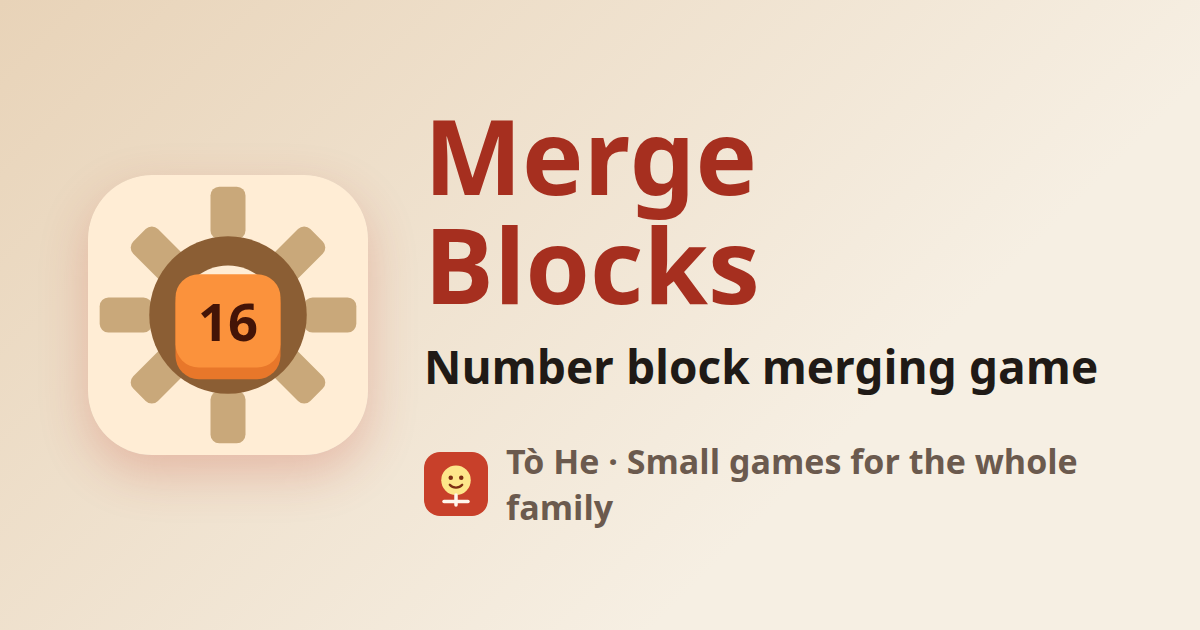
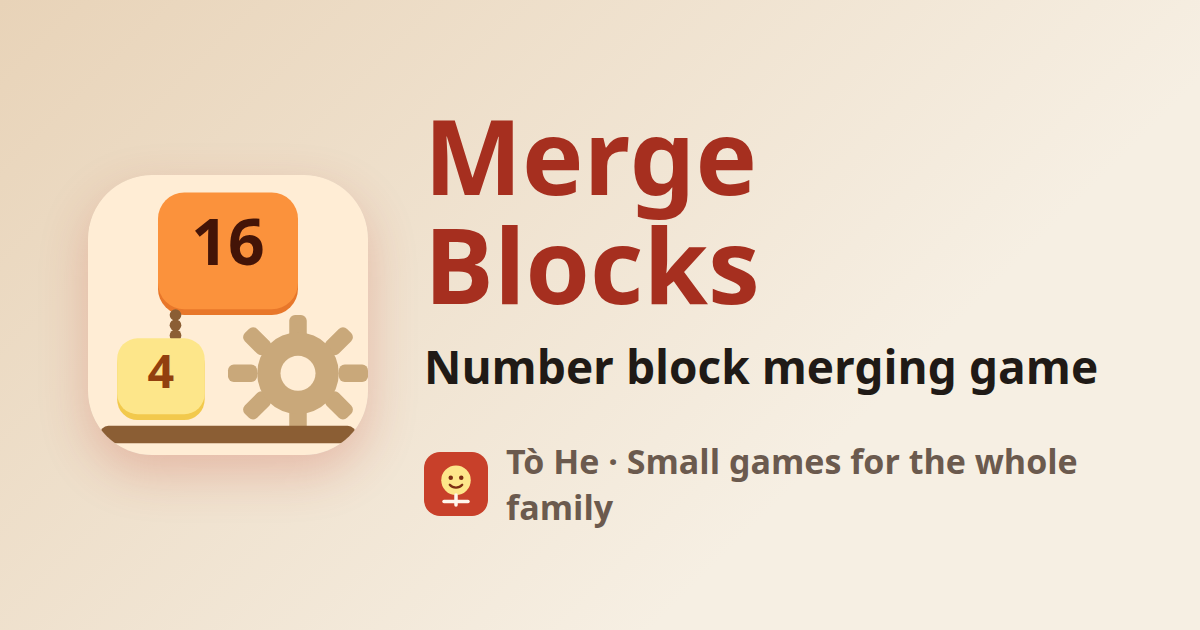
fix(merge-block): align the blocks to their cells and give the machine a brand mark (2.0.1)
The block texture is now exactly the cell slot: the dark edge is an inset border, the top face and number are centred, and the aim ghost is the same slot, so the 3D edge no longer spills into the next cell. The new mark tells the game's loop in one picture: the 4 fired up to the 16, with the gear and the loader rail; the title, catalog, OG and docs follow.

Changed region(s): [[0.0617, 0.3016, 0.3083, 0.7238]]

diff --git a/games/merge-block/src/view.ts b/games/merge-block/src/view.ts
@@ -336,13 +336,15 @@ export class BoardScene extends Phaser.Scene {
     });
   }
 
-  /** A block with its number, centred on the top face's square: `originY` puts that centre on the block's position. */
+  /** A block with its number, the whole block the size of its cell slot: `originY` puts its centre on the cell's. */
   private blockTexture(exp: Exponent, size: number): { key: string; originY: number } {
     const inner = size - this.layoutInfo.gap;
     const r = inner * 0.2;
     const line = Math.max(2, inner * 0.04);
     const pad = Math.ceil(line / 2) + 1;
-    const height = inner * 1.06 + pad * 2;
+    const height = inner + pad * 2;
+    const inset = inner * 0.03;
+    const face = inner - inset * 2;
     const key = `merge-block:block:${this.theme}:${this.palette}:${inner}:${exp}`;
     this.drawn.add(key);
     drawTexture(this, key, inner + pad * 2, height, (ctx) => {
@@ -353,17 +355,25 @@ export class BoardScene extends Phaser.Scene {
         roundedRect(ctx, pad + x, pad + y, w, h, radius);
         ctx.fill();
       };
-      fill(cssHex(style.edge), 0, inner * 0.06, inner, inner, r);
-      fill(cssHex(style.fill), 0, 0, inner, inner * 0.94, r);
+      // The dark edge is the block's border, inside the cell slot, so blocks never spill into the gap.
+      fill(cssHex(style.edge), 0, 0, inner, inner, r);
+      fill(cssHex(style.fill), inset, inset, face, face, r * 0.94);
       if (style.outline !== undefined) {
         ctx.lineWidth = line;
         ctx.strokeStyle = cssHex(style.outline);
         ctx.beginPath();
-        roundedRect(ctx, pad, pad, inner, inner, r);
+        roundedRect(ctx, pad + inset, pad + inset, face, face, r * 0.94);
         ctx.stroke();
       }
-      fill('rgba(255, 255, 255, 0.22)', inner * 0.1, inner * 0.07, inner * 0.8, inner * 0.18, r * 0.6);
-      // The digits' own box is centred (not the font's), a little above the middle like the top face.
+      fill(
+        'rgba(255, 255, 255, 0.22)',
+        inset + face * 0.1,
+        inset + face * 0.07,
+        face * 0.8,
+        face * 0.18,
+        r * 0.6,
+      );
+      // The digits' own box is centred (not the font's) on the top face.
       const value = formatValue(blockValue(exp));
       const fontSize = Math.round(inner * (value.length <= 2 ? 0.46 : value.length === 3 ? 0.38 : 0.31));
       ctx.font = `900 ${fontSize}px system-ui, sans-serif`;
@@ -371,7 +381,7 @@ export class BoardScene extends Phaser.Scene {
       ctx.textAlign = 'center';
       ctx.textBaseline = 'alphabetic';
       const box = ctx.measureText(value);
-      const middle = pad + inner / 2 - inner * 0.03;
+      const middle = pad + inner / 2;
       ctx.fillText(
         value,
         pad + inner / 2,
@@ -578,12 +588,15 @@ export class BoardScene extends Phaser.Scene {
     }
     const { y: ghostY } = this.cellCenter({ col: this.hoverCol, row });
     const style = blockStyle(this.state.current, this.theme, this.palette);
+    // The ghost is the block's own slot: the same size and centre the block will land at.
+    const ghostX = x + gap / 2;
+    const ghostTop = ghostY - cell / 2 + gap / 2;
     this.ghost
       .lineStyle(3, style.edge, 0.9)
-      .strokeRoundedRect(x + gap, ghostY - cell / 2 + gap, cell - gap * 2, cell - gap * 2, cell * 0.18);
+      .strokeRoundedRect(ghostX, ghostTop, cell - gap, cell - gap, cell * 0.18);
     this.ghost
       .fillStyle(style.fill, 0.35)
-      .fillRoundedRect(x + gap, ghostY - cell / 2 + gap, cell - gap * 2, cell - gap * 2, cell * 0.18);
+      .fillRoundedRect(ghostX, ghostTop, cell - gap, cell - gap, cell * 0.18);
     // The aim line: dots from the loader's block to the ghost.
     this.aim.fillStyle(style.edge, 0.7);
     const from = this.current?.y ?? loaderY;

diff --git a/docs/architecture/game-shell.md b/docs/architecture/game-shell.md
@@ -144,7 +144,7 @@ title screen → Tò He.
 | Game | Title screen (logo · decor) | Cài đặt | Quick panel rows | HUD (start · middle · end) |
 | --- | --- | --- | --- | --- |
 | Chạm Chấm (`hello`) | its dot · dots and a star; Chơi, Kỷ lục, Âm thanh, Cài đặt, Xếp hạng, Cách chơi | sound | sound | score · `timer` seconds · best; 3-2-1 before a round goes on |
-| Ghép Khối (`merge-block`) | its gear · blocks; Chơi / Chơi tiếp, Ván mới, Kỷ lục, the same tools | sound, `palette` Màu khối | sound, `palette` Màu khối (the presets) | score · best (the next block waits on the loader) |
+| Ghép Khối (`merge-block`) | its 4-and-16 block logo · blocks; Chơi / Chơi tiếp, Ván mới, Kỷ lục, the same tools | sound, `palette` Màu khối | sound, `palette` Màu khối (the presets) | score · best (the next block waits on the loader) |
 | Chạm Ghép (`tap-merge`) | as Ghép Khối, a sparkle among the blocks | sound, `palette` Màu khối | sound, `palette` Màu khối (the presets) | score · `shuffle` Xáo trộn · best, the goal row (`target` Mục tiêu) under it |
 | Tiến Lên (`tien-len`) | its cards · the four suits; `robot` Chơi với máy / Chơi tiếp, Bàn mới, Chơi online, Âm thanh, Cài đặt, Cách chơi | sound, `scroll` Luật nhà, `chair` Bàn chơi (from the next hand), `cards` Bộ bài | sound, `cards` Bộ bài (the decks); at a table also `scroll` Luật của bàn | table score · hand number · (`smiley` Cảm xúc) `arrows-down-up` Xếp số / Xếp bộ |
 

diff --git a/games/merge-block/SPEC.md b/games/merge-block/SPEC.md
@@ -72,7 +72,7 @@ of blocks shipped, and **Chơi lại**.
 The kit's two stages, quick panel and HUD ([Game shell](../../docs/architecture/game-shell.md), ADR 0020); this game
 brings its content:
 
-1. **Title screen** (the menu stage, every time the game opens, no board running): its gear logo holding a block over
+1. **Title screen** (the menu stage, every time the game opens, no board running): its block-and-gear logo (the 4 fired up to the 16, the gear and the loader rail) over
    drifting blocks, **Ghép Khối**, the chip "Ván đang chơi dở: n điểm. · Kỷ lục m", **Chơi** or **Chơi
    tiếp** and **Ván mới** (asks first; the run ends); tools Âm thanh, Cài đặt, Xếp hạng (signed-in players) and Cách
    chơi; **Về Tò He** last, under the tools. **Cài đặt**: Âm thanh and **Màu khối** — one row per

diff --git a/games/merge-block/page/en.md b/games/merge-block/page/en.md
@@ -1,5 +1,5 @@
 ---
-updated: 2026-11-07
+updated: 2026-11-08
 kind: number block merging game
 ---
 

diff --git a/games/merge-block/page/vi.md b/games/merge-block/page/vi.md
@@ -1,5 +1,5 @@
 ---
-updated: 2026-11-07
+updated: 2026-11-08
 kind: game ghép khối số
 ---
 
